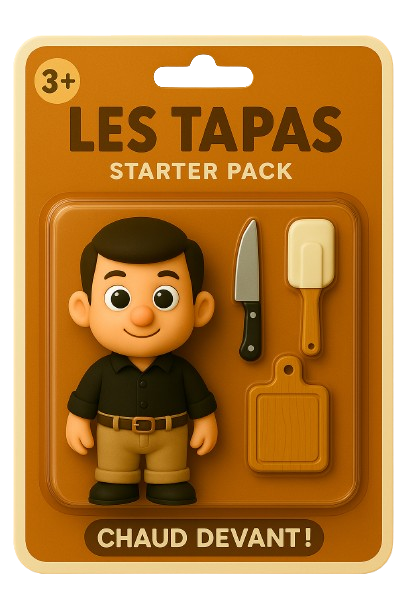
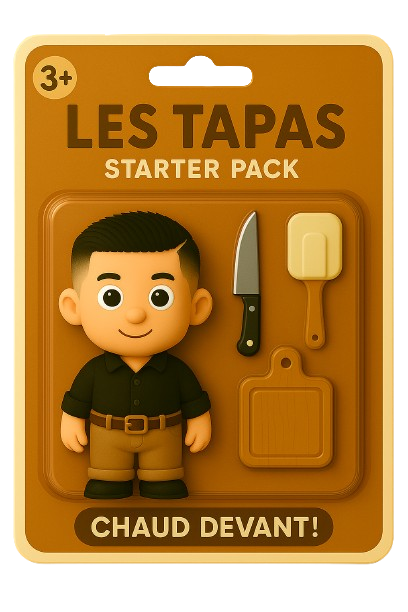
new hrefs

Changed region(s): [[0.0294, 0.031, 0.9706, 0.9624]]

diff --git a/assets/js/script.js b/assets/js/script.js
@@ -33,10 +33,9 @@ const images = [
   './assets/image/image6.png',
   './assets/image/image7.png',
   './assets/image/image8.png',
-
-  //'./assets/image/image9.png',
-  //'./assets/image/image10.png',
-  //'./assets/image/image11.png',
+  './assets/image/image9.png',
+  './assets/image/image10.png',
+  './assets/image/image11.png',
 
 ];
 
@@ -48,11 +47,10 @@ const imagesMessages = {
   './assets/image/image5.png': '🎉 Francesca, pour vous Servir...',
   './assets/image/image6.png': '🎉 Arnaud, pour vos Rafraîchissements...',
   './assets/image/image7.png': '🎉 Loic, pour vos Vins...',
-  './assets/image/image8.png': '🎉 Michael, pour vous Servir...',
-
-  //'./assets/image/image9.png': '🎉 Angela, pour vos Desserts...',
-  //'./assets/image/image10.png': '🎉 Manon, pour vos Desserts...',
-  //'./assets/image/image11.png': '🎉 Juliette, pour vos Desserts...',
+  './assets/image/image8.png': '🎉 Mickaël, pour vous Servir...',
+  './assets/image/image9.png': '🎉 Angela, pour vos Desserts...',
+  './assets/image/image10.png': '🎉 Manon, pour vos Desserts...',
+  './assets/image/image11.png': '🎉 Juliette, pour vos Desserts...',
 
 };
 
